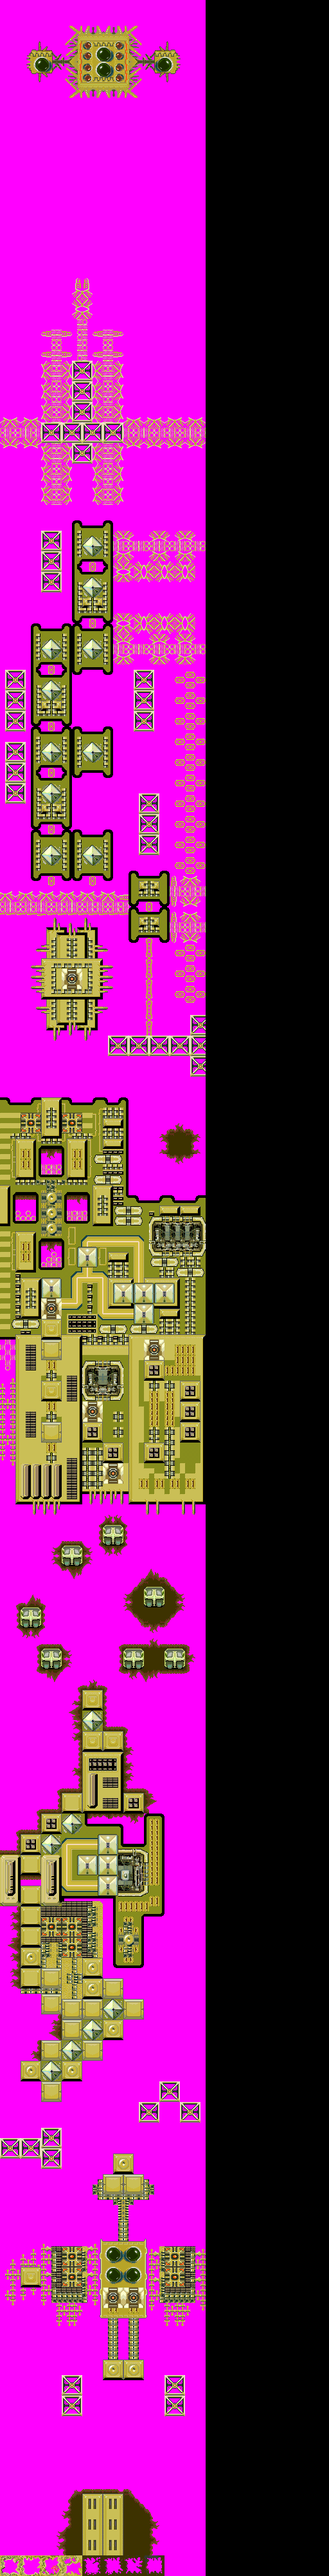
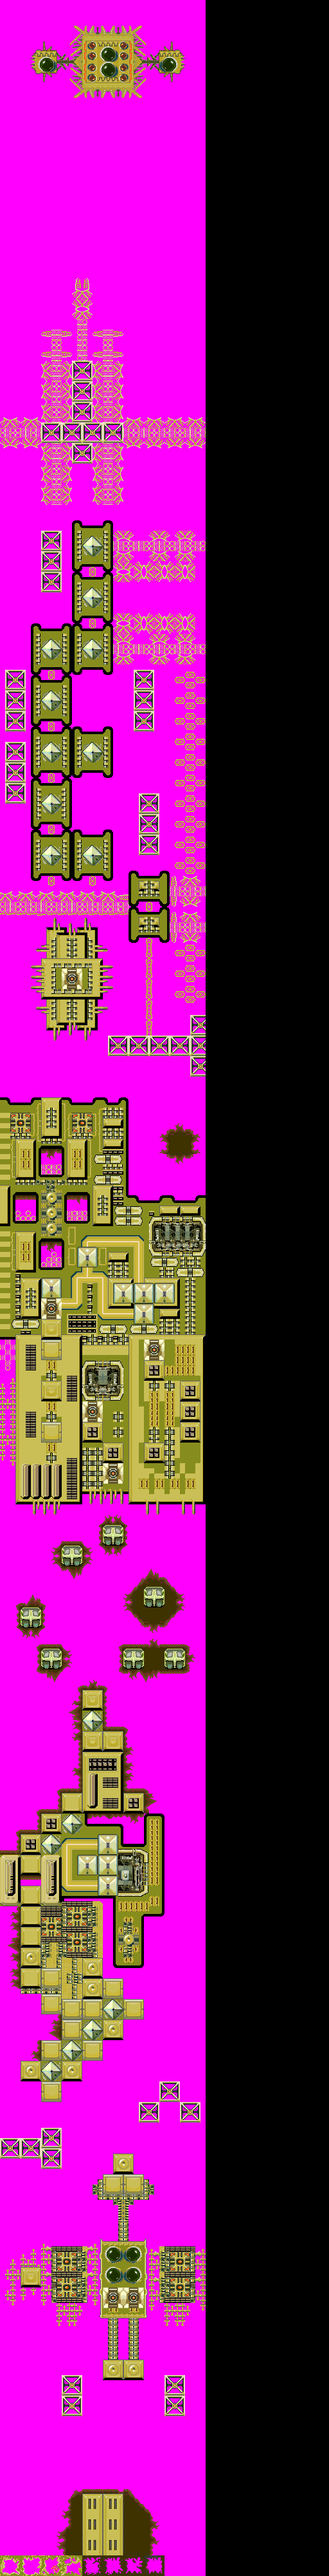
new graphics and level 16

diff --git a/WarhawkGame/arm9/source/warhawk.h b/WarhawkGame/arm9/source/warhawk.h
@@ -21,6 +21,7 @@
 #include "..\build\Level13.h"
 #include "..\build\Level14.h"
 #include "..\build\Level15.h"
+#include "..\build\Level16.h"
 #include "..\build\SpritesLev1.h"
 #include "..\build\SpritesLev2.h"
 #include "..\build\SpritesLev3.h"
